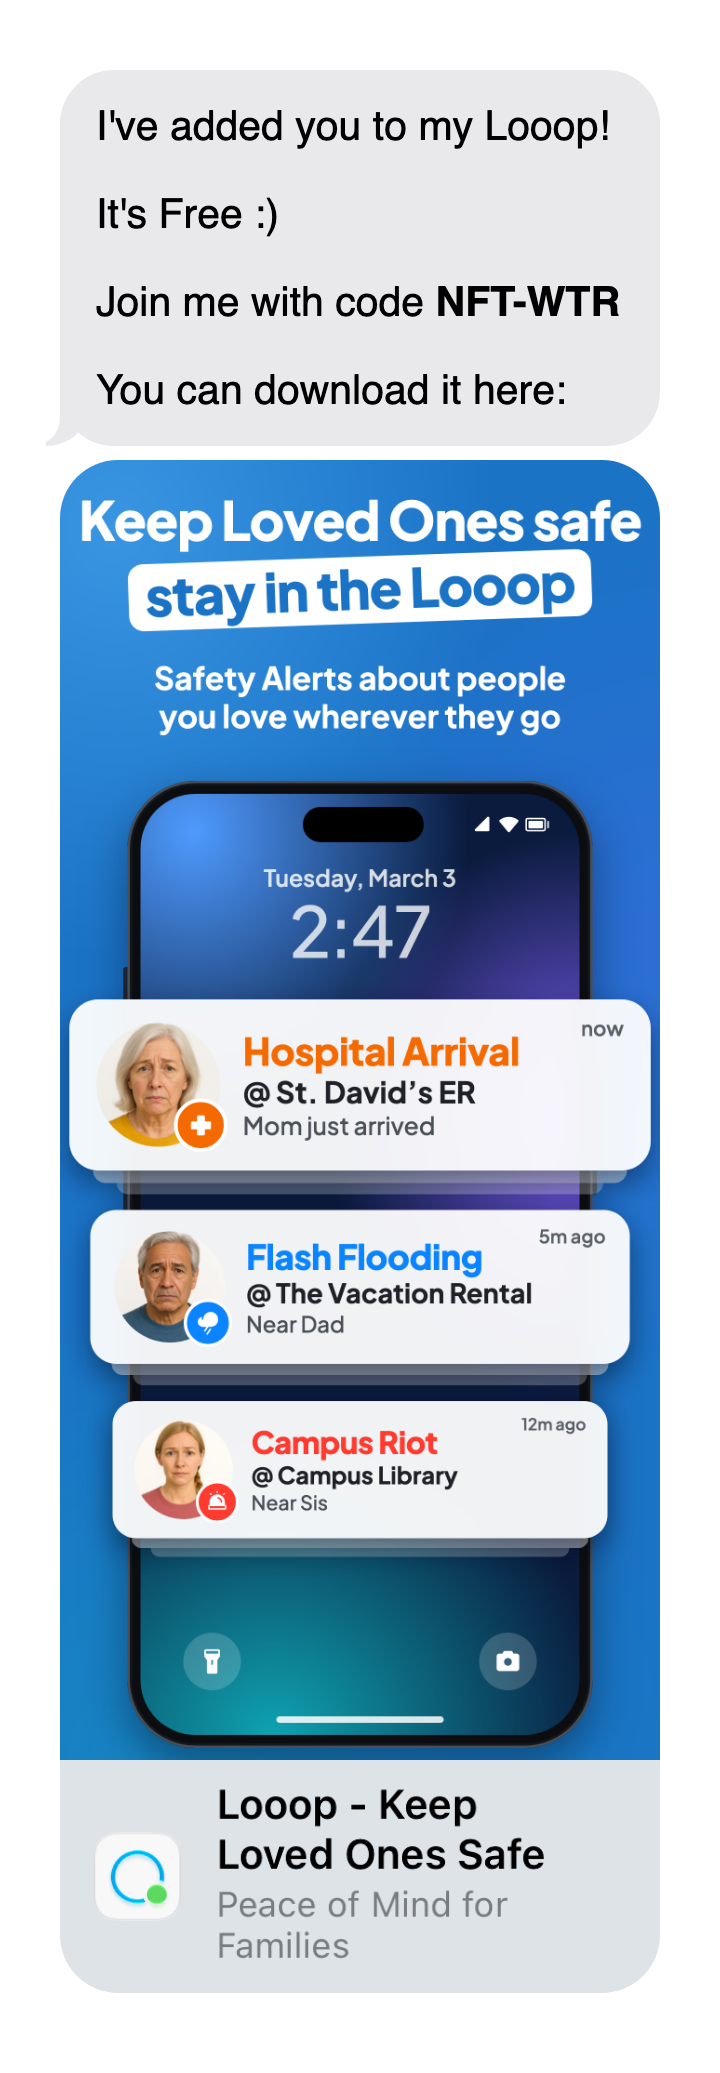
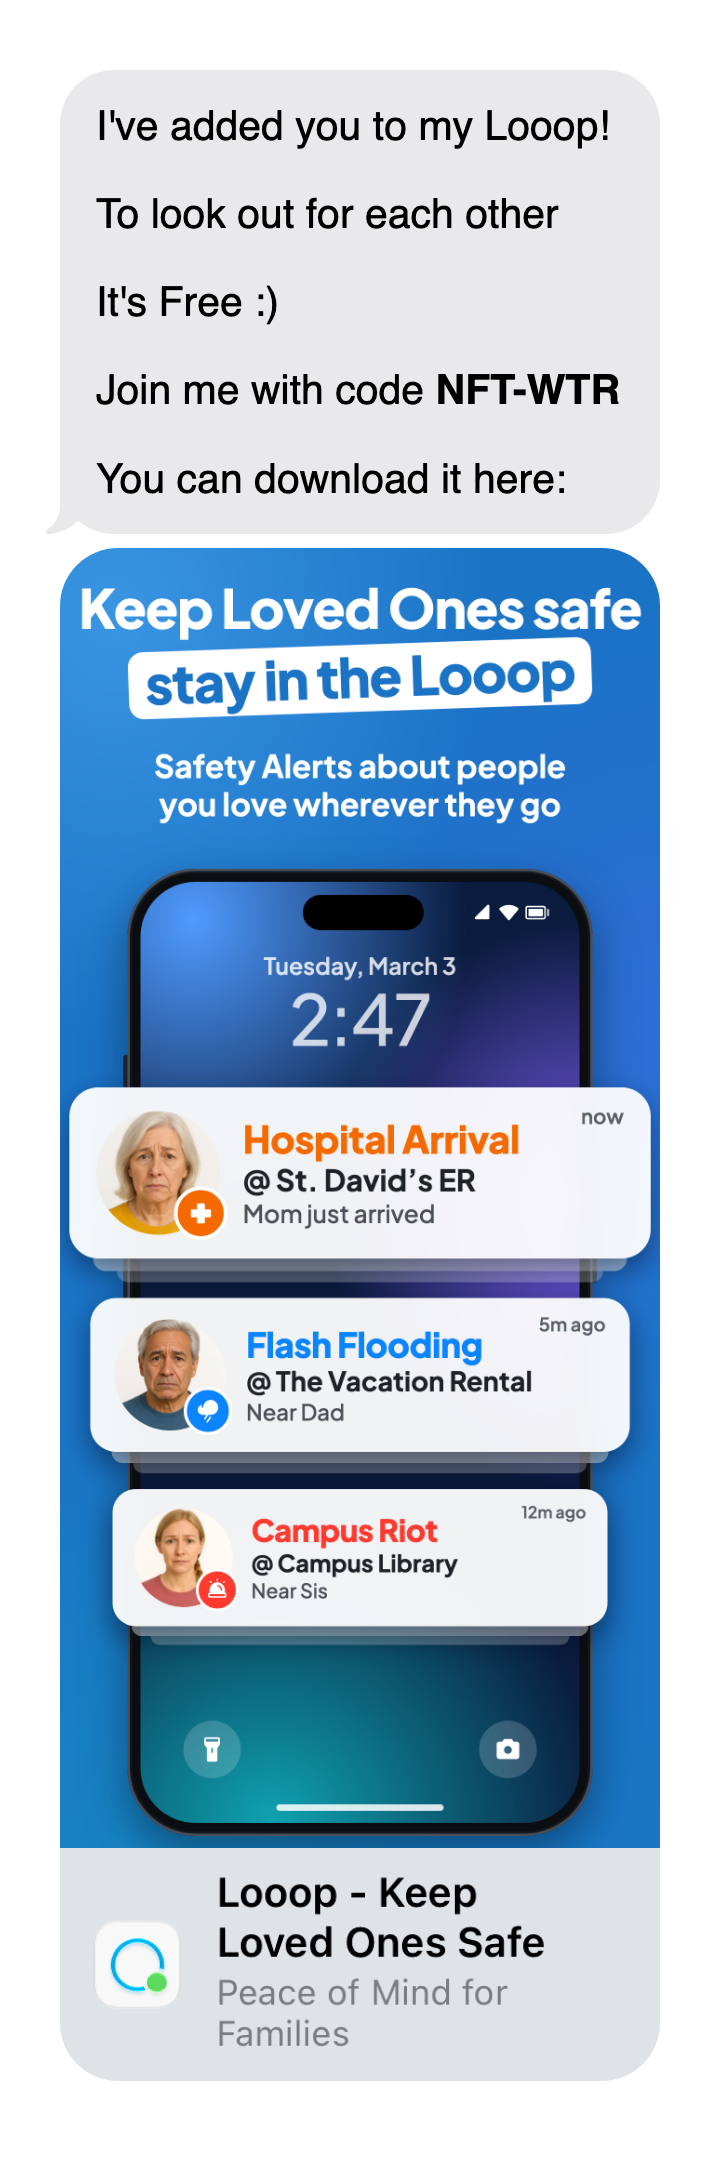
Add 'To look out for each other' line to the /invite bubble

Changed region(s): [[0.0611, 0.0309, 0.9167, 0.9571], [0.5806, 0.0309, 0.6417, 0.0617]]

diff --git a/invite.html b/invite.html
@@ -22,7 +22,7 @@
 </head>
 <body>
   <a class="card" href="https://apps.apple.com/us/app/looop-keep-loved-ones-safe/id6760598111?ppid=95d304e6-c38c-4601-ad8b-23c0f87db892">
-    <img src="images/invite-messages.png?v=1122h" width="720" height="2073" alt="Text messages: I've added you to my Looop! It's Free :) Join me with code NFT-WTR. You can download it here: Looop on the App Store">
+    <img src="images/invite-messages.png?v=1122i" width="720" height="2161" alt="Text messages: I've added you to my Looop! To look out for each other. It's Free :) Join me with code NFT-WTR. You can download it here: Looop on the App Store">
   </a>
   <p>Click here to learn more:<br><a href="https://apps.apple.com/us/app/looop-keep-loved-ones-safe/id6760598111?ppid=95d304e6-c38c-4601-ad8b-23c0f87db892">Looop on the App Store</a></p>
   <div class="spacer" aria-hidden="true"></div>

diff --git a/CHANGELOG.md b/CHANGELOG.md
@@ -2,6 +2,11 @@
 
 Changes to thelooopapp.com, newest first. This file is not published (see `_config.yml`).
 
+## 2026-11-22 16:50 CT
+
+### Pages
+- **`/invite` new second line** (`images/invite-messages.png`, `invite.html`): the text bubble now has "To look out for each other" as its second line, with the same spacing between lines.
+
 ## 2026-11-22 16:30 CT
 
 ### Pages
